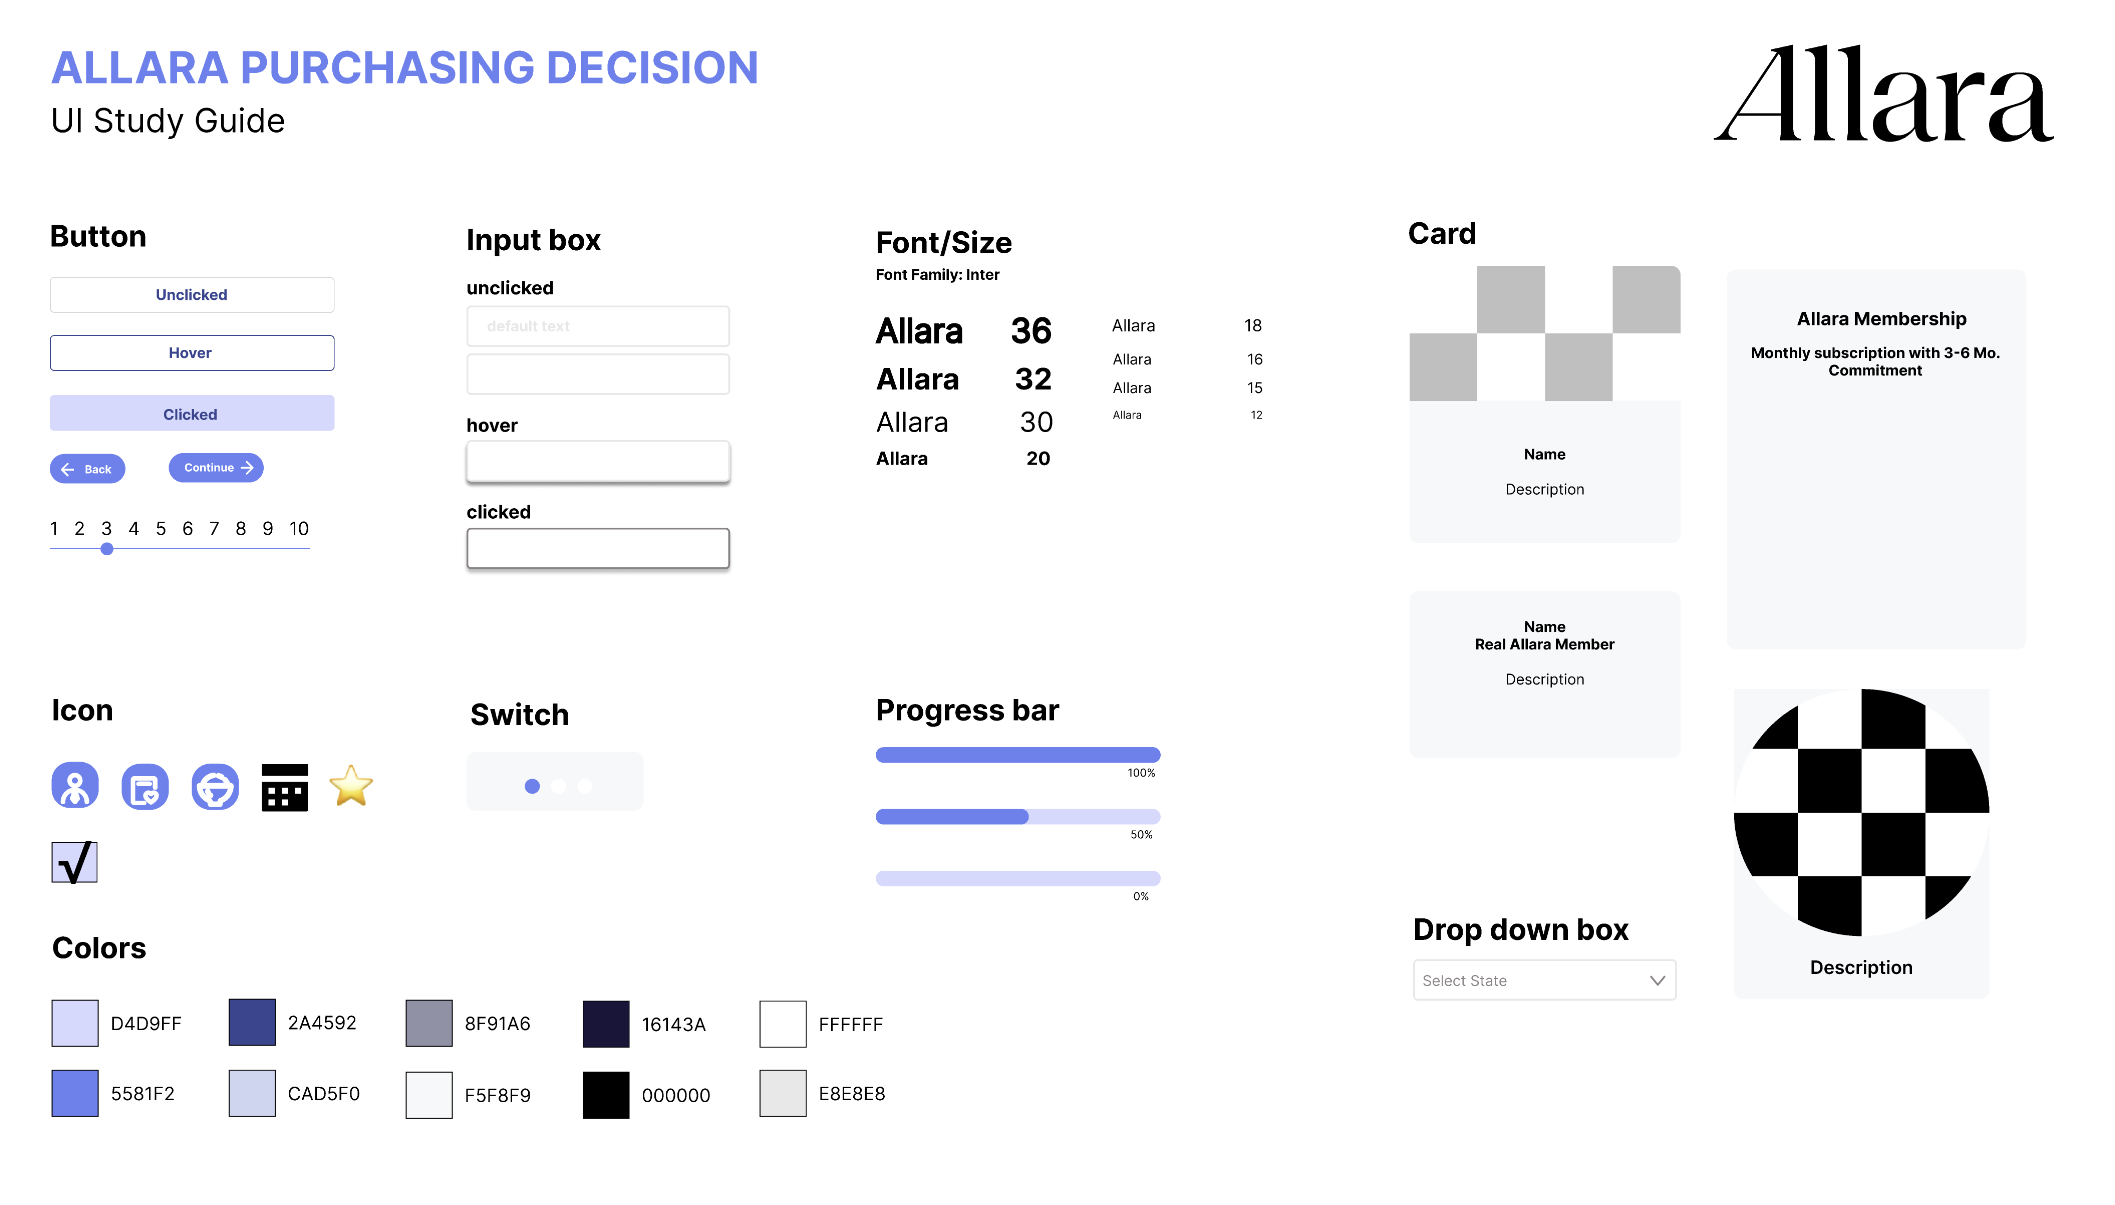
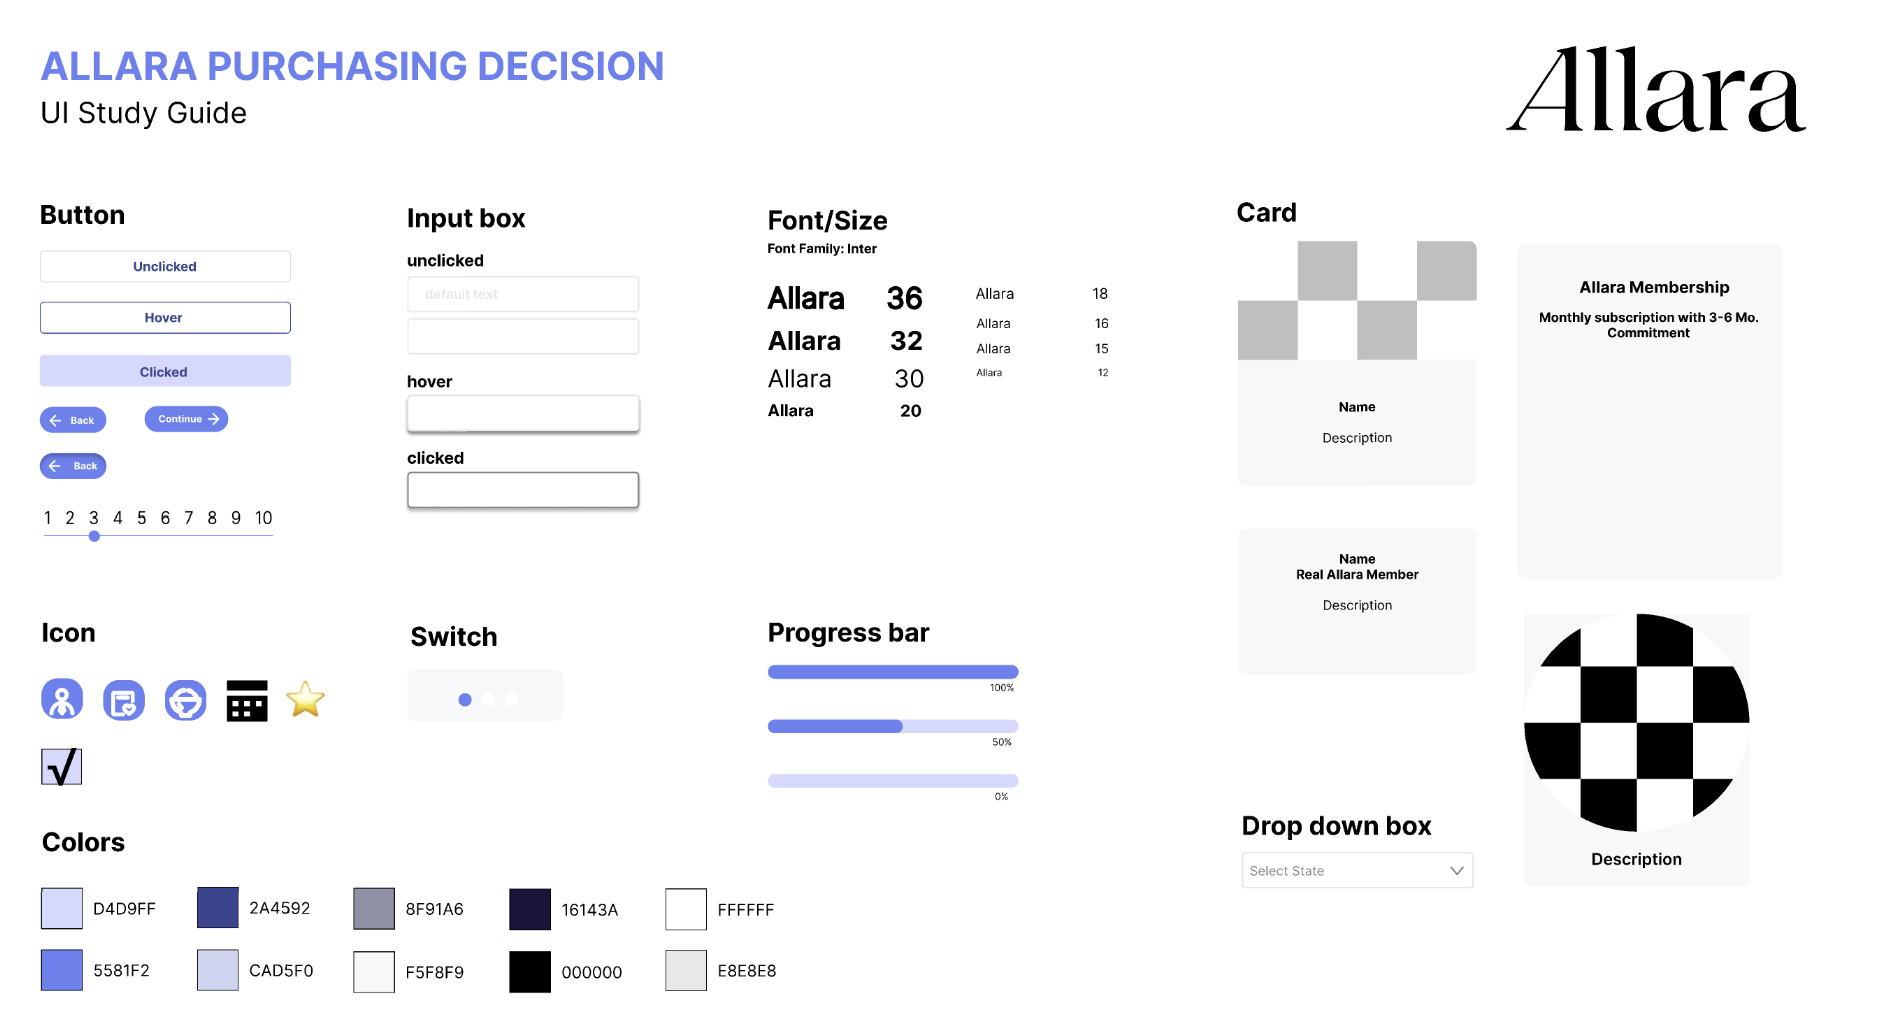
change style guide

diff --git a/index.html b/index.html
@@ -89,30 +89,86 @@
 
       <section id="updated-low-fi">
         <h2>Update Low-fi Wireframe after Critiques</h2>
-        <p>Following the valuable feedback received from our instructor, client, and peers, we proceeded to update our low-fidelity wireframe for Allara Health's onboarding flow. This <a href="https://www.figma.com/file/n8RuLRnTVZAYtC7EViOqKS/Allara-Wireframe?type=design&node-id=192%3A2&mode=design&t=bo6AhIDIktOV7UTx-1">second iteration</a> incorporates several key changes based on the critiques and suggestions provided.</p>
-        <p>We implemented the following changes based on our client's feedback:</p>
+        <p>
+          Following the valuable feedback received from our instructor, client,
+          and peers, we proceeded to update our low-fidelity wireframe for
+          Allara Health's onboarding flow. This
+          <a
+            href="https://www.figma.com/file/n8RuLRnTVZAYtC7EViOqKS/Allara-Wireframe?type=design&node-id=192%3A2&mode=design&t=bo6AhIDIktOV7UTx-1"
+            >second iteration</a
+          >
+          incorporates several key changes based on the critiques and
+          suggestions provided.
+        </p>
+        <p>
+          We implemented the following changes based on our client's feedback:
+        </p>
         <ul>
-            <li> Added a "continue" button on each page of the specialist, medical care, and nutrition support sections to maintain user engagement within the signup flow</li>
-            <li> Removed the referral question and the hormonal & metabolic evaluation program, as they were no longer relevant</li>
-            <li>Combined bullets 3, 4, and 5 as they all refer to 1:1 visits with providers</li>
-            <li>Removed the community offering</li>
-            <li>Adjusted the progress bar to end at the review page, making the onboarding process appear more manageable</li>
+          <li>
+            Added a "continue" button on each page of the specialist, medical
+            care, and nutrition support sections to maintain user engagement
+            within the signup flow
+          </li>
+          <li>
+            Removed the referral question and the hormonal & metabolic
+            evaluation program, as they were no longer relevant
+          </li>
+          <li>
+            Combined bullets 3, 4, and 5 as they all refer to 1:1 visits with
+            providers
+          </li>
+          <li>Removed the community offering</li>
+          <li>
+            Adjusted the progress bar to end at the review page, making the
+            onboarding process appear more manageable
+          </li>
         </ul>
         <p>We also made the following changes based on our peers' feedback:</p>
         <ul>
-            <li>Used the expert section from Allara's "About" page to provide descriptions on the specialist page</li>
-            <li>Added more padding to the button text to improve readability</li>
-            <li>Incorporated two guidance dots for swiping or scrolling</li>
-            <li>Featured real-world patient testimonials from Allara Health's website to showcase the program's benefits</li>
-            <li>Added a "read more" and "read less" button for the "Your insurance will be billed for" section on the covered page</li>
+          <li>
+            Used the expert section from Allara's "About" page to provide
+            descriptions on the specialist page
+          </li>
+          <li>Added more padding to the button text to improve readability</li>
+          <li>Incorporated two guidance dots for swiping or scrolling</li>
+          <li>
+            Featured real-world patient testimonials from Allara Health's
+            website to showcase the program's benefits
+          </li>
+          <li>
+            Added a "read more" and "read less" button for the "Your insurance
+            will be billed for" section on the covered page
+          </li>
         </ul>
-        <p>However, we decided not to include some suggestions in this low-fidelity iteration:</p>
+        <p>
+          However, we decided not to include some suggestions in this
+          low-fidelity iteration:
+        </p>
         <ul>
-            <li>Our instructor's suggestion to enhance the visual design will be addressed in our high-fidelity prototype.</li>
-            <li>The peer feedback regarding adding color, fun elements, and pictures will also be incorporated in the high-fidelity prototype, where we can better explore visual design choices.</li>
+          <li>
+            Our instructor's suggestion to enhance the visual design will be
+            addressed in our high-fidelity prototype.
+          </li>
+          <li>
+            The peer feedback regarding adding color, fun elements, and pictures
+            will also be incorporated in the high-fidelity prototype, where we
+            can better explore visual design choices.
+          </li>
         </ul>
-        <p>By selectively implementing the most relevant and impactful changes in this second iteration, we have created an improved low-fidelity wireframe that better aligns with our client's goals and addresses key user experience concerns raised by our peers.</p>
-        <p>This iterative process has reinforced the importance of seeking and incorporating feedback from multiple stakeholders to refine and enhance our design solution. As we move forward to the high-fidelity prototyping stage, we will continue to keep the remaining suggestions in mind to create a visually engaging and user-friendly onboarding experience for Allara Health.</p>
+        <p>
+          By selectively implementing the most relevant and impactful changes in
+          this second iteration, we have created an improved low-fidelity
+          wireframe that better aligns with our client's goals and addresses key
+          user experience concerns raised by our peers.
+        </p>
+        <p>
+          This iterative process has reinforced the importance of seeking and
+          incorporating feedback from multiple stakeholders to refine and
+          enhance our design solution. As we move forward to the high-fidelity
+          prototyping stage, we will continue to keep the remaining suggestions
+          in mind to create a visually engaging and user-friendly onboarding
+          experience for Allara Health.
+        </p>
       </section>
 
       <section id="visual-style-guide">
@@ -136,9 +192,9 @@
           </p>
           <p>
             At the same time, we also made some changes to the original design.
-            For example, on the input box, we added a shadow to the selected and
-            hover input box. In this way, users who are not sensitive to color
-            can clearly see the input box they selected.
+            For example, on the input box, we added a shadow to the selected,
+            hover button and input box. In this way, users who are not sensitive
+            to color can clearly see the input box they selected.
           </p>
           <p>
             In the design of the icon, we implemented three blue buttons to
